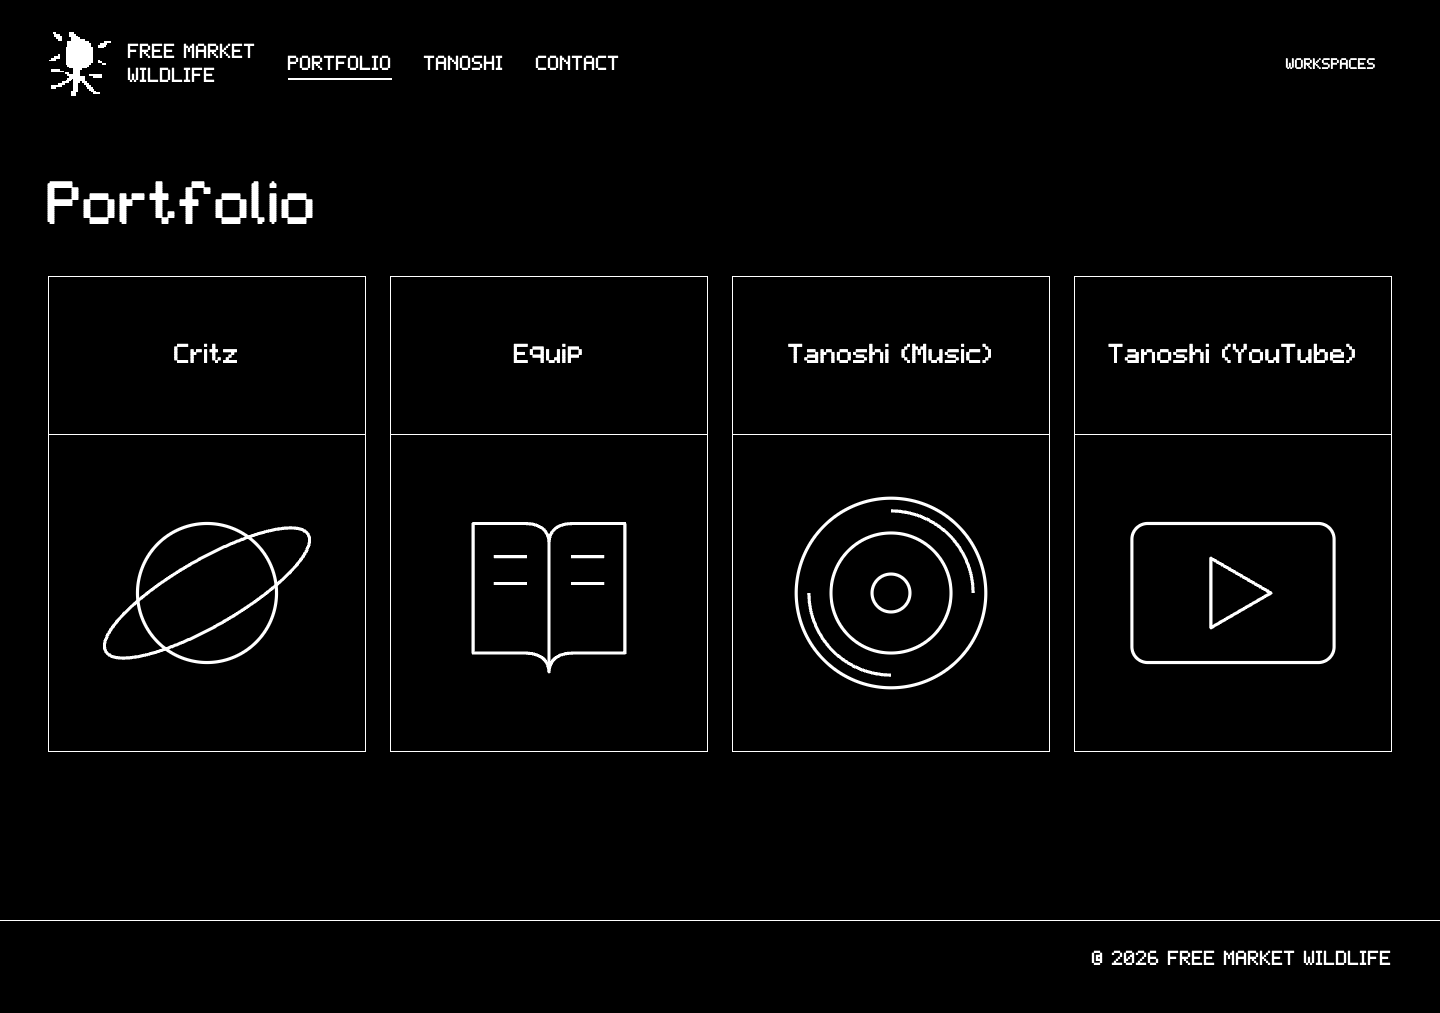
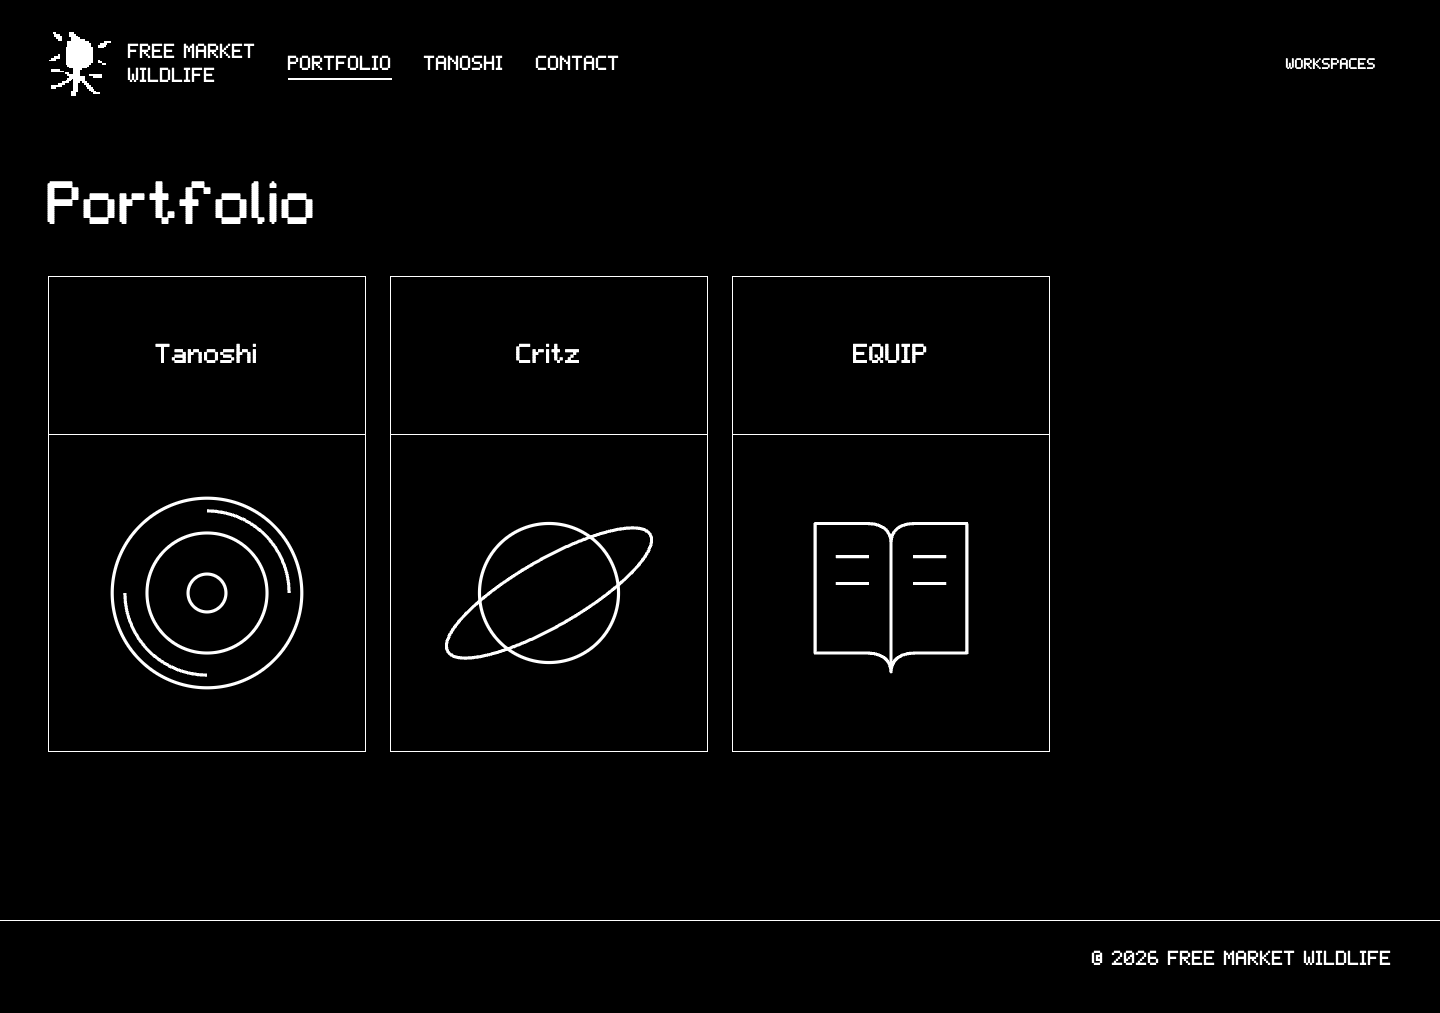
Organize portfolio as Tanoshi Critz and EQUIP with project sections and public growth

diff --git a/assets/js/portfolio-growth.js b/assets/js/portfolio-growth.js
@@ -1,0 +1,24 @@
+const host=document.querySelector('[data-public-growth]');
+const number=new Intl.NumberFormat();
+const label=value=>new Date(value).toLocaleDateString(undefined,{year:'numeric',month:'short',day:'numeric',timeZone:'America/Los_Angeles'});
+const cell=(tag,text)=>{const node=document.createElement(tag);node.textContent=text;return node;};
+try {
+  const response=await fetch('/assets/data/tanoshi-youtube.json',{cache:'no-store'});if(!response.ok)throw Error();
+  const data=await response.json(),now=Date.now();
+  const observations=(data.snapshots || []).filter(row=>{const time=Date.parse(row.observedAt);return time<=now && time>=now-27*86400000;}).sort((a,b)=>Date.parse(a.observedAt)-Date.parse(b.observedAt));
+  if(!observations.length)throw Error();
+  const first=observations[0],last=observations.at(-1);
+  const valid=value=>typeof value==='number' && Number.isFinite(value) && value>=0;
+  const table=document.createElement('table');table.className='portfolio-growth-table';
+  const head=document.createElement('thead'),headRow=document.createElement('tr');
+  for(const title of ['Metric','Latest','Observed change']){const th=cell('th',title);th.scope='col';headRow.append(th);}
+  head.append(headRow);table.append(head);const body=document.createElement('tbody');
+  for(const [key,title] of [['subscribers','Subscribers'],['views','Views'],['videos','Videos']]) {
+    const row=document.createElement('tr'),name=cell('th',title);name.scope='row';row.append(name,cell('td',valid(last[key])?number.format(last[key]):'Unavailable'));
+    const delta=last[key]-first[key];
+    row.append(cell('td',observations.length>1 && valid(first[key]) && valid(last[key])?(delta>0?'+':'')+number.format(delta):'Awaiting observations'));body.append(row);
+  }
+  table.append(body);host.replaceChildren(table);
+  const note=cell('p',`Public observations: ${label(first.observedAt)}–${label(last.observedAt)}. Subscriber counts may be rounded. Changes cover this observed period.`);note.className='portfolio-growth-note';host.append(note);
+  if(data.status!=='ok' || now-Date.parse(last.observedAt)>36*3600000){const warning=cell('p','Latest refresh is delayed. Showing the most recent available observations.');warning.className='portfolio-growth-note';host.append(warning);}
+}catch {host.replaceChildren(cell('p','Channel growth observations are not available yet.'));}

diff --git a/tanoshi/index.html b/tanoshi/index.html
@@ -9,7 +9,7 @@
   <title>Tanoshi — Free Market Wildlife</title>
   <link rel="icon" href="/assets/images/mark.svg" type="image/svg+xml">
   <link rel="stylesheet" href="/assets/css/styles.css">
-  <link rel="stylesheet" href="/assets/css/portfolio.css?v=1">
+  <link rel="stylesheet" href="/assets/css/portfolio.css?v=2">
 
   <script type="module" src="/assets/js/app.js?v=4-open"></script>
 <script type="module" src="/assets/js/account.js?v=2"></script></head>
@@ -21,12 +21,7 @@
   <button class="access-button" type="button" data-open-access aria-label="Workspaces"><span>Workspaces</span></button>
 </header>
 <main class="page-main portfolio-main" id="main" tabindex="-1">
-  <a class="portfolio-back" href="/portfolio/">← Portfolio</a>
-  <h1>Tanoshi</h1>
-  <div class="portfolio-grid" aria-label="Tanoshi portfolio">
-    <a class="portfolio-card" href="/tanoshi/music/"><div class="portfolio-card-heading"><h2>Tanoshi (Music)</h2></div><div class="portfolio-thumbnail"><img src="/assets/images/portfolio/music.svg" width="400" height="400" alt=""></div></a>
-    <a class="portfolio-card" href="/tanoshi/youtube/"><div class="portfolio-card-heading"><h2>Tanoshi (YouTube)</h2></div><div class="portfolio-thumbnail"><img src="/assets/images/portfolio/youtube.svg" width="400" height="400" alt=""></div></a>
-  </div>
+<a class="portfolio-back" href="/portfolio/">← Portfolio</a><h1>Tanoshi</h1><div class="portfolio-grid"><a class="portfolio-card" href="/tanoshi/youtube/"><div class="portfolio-card-heading"><h2>YouTube</h2></div><div class="portfolio-thumbnail"><img src="/assets/images/portfolio/youtube.svg" width="400" height="400" alt=""></div></a><a class="portfolio-card" href="/tanoshi/music/"><div class="portfolio-card-heading"><h2>Music</h2></div><div class="portfolio-thumbnail"><img src="/assets/images/portfolio/music.svg" width="400" height="400" alt=""></div></a></div>
 </main>
 <footer class="site-footer"><span></span><span>© <span data-year>2026</span> FREE MARKET WILDLIFE</span></footer>
 <dialog class="access-dialog" id="access-dialog" aria-labelledby="access-title"><div class="dialog-panel"><button class="close-button" type="button" data-close-access aria-label="Close sign in">×</button><h2 id="access-title">Sign in</h2><p role="status">Loading…</p></div></dialog>

diff --git a/tanoshi/youtube/index.html b/tanoshi/youtube/index.html
@@ -9,10 +9,10 @@
   <title>Tanoshi (YouTube) — Free Market Wildlife</title>
   <link rel="icon" href="/assets/images/mark.svg" type="image/svg+xml">
   <link rel="stylesheet" href="/assets/css/styles.css">
-  <link rel="stylesheet" href="/assets/css/portfolio.css?v=1">
+  <link rel="stylesheet" href="/assets/css/portfolio.css?v=2">
 
   <script type="module" src="/assets/js/app.js?v=4-open"></script>
-<script type="module" src="/assets/js/account.js?v=2"></script></head>
+<script type="module" src="/assets/js/account.js?v=2"></script><script type="module" src="/assets/js/portfolio-growth.js?v=1"></script></head>
 <body>
 <a class="skip-link" href="#main">Skip to content</a>
 <header class="site-header">
@@ -21,8 +21,10 @@
   <button class="access-button" type="button" data-open-access aria-label="Workspaces"><span>Workspaces</span></button>
 </header>
 <main class="page-main portfolio-main" id="main" tabindex="-1">
-  <nav class="portfolio-breadcrumbs" aria-label="Breadcrumb"><a href="/portfolio/">Portfolio</a><span aria-hidden="true">/</span><a href="/tanoshi/">Tanoshi</a></nav>
-  <h1>Tanoshi (YouTube)</h1>
+<nav class="portfolio-breadcrumbs" aria-label="Breadcrumb"><a href="/portfolio/">Portfolio</a><span>/</span><a href="/tanoshi/">Tanoshi</a></nav><h1>YouTube</h1>
+<p><a class="portfolio-inline-link" href="https://www.youtube.com/@TanoshiSan">Tanoshi on YouTube ↗</a></p>
+<section class="portfolio-section" aria-labelledby="growth-heading"><h2 id="growth-heading">Channel growth</h2><div data-public-growth><p role="status">Loading public channel observations…</p></div></section>
+<section class="portfolio-section"><h2>What I’ve learned about content</h2></section>
 </main>
 <footer class="site-footer"><span></span><span>© <span data-year>2026</span> FREE MARKET WILDLIFE</span></footer>
 <dialog class="access-dialog" id="access-dialog" aria-labelledby="access-title"><div class="dialog-panel"><button class="close-button" type="button" data-close-access aria-label="Close sign in">×</button><h2 id="access-title">Sign in</h2><p role="status">Loading…</p></div></dialog>

diff --git a/portfolio/critz/games/index.html b/portfolio/critz/games/index.html
@@ -1,0 +1,29 @@
+<!doctype html>
+<html lang="en">
+<head>
+  <meta charset="utf-8">
+  <meta name="viewport" content="width=device-width, initial-scale=1">
+  <meta name="color-scheme" content="dark">
+  <meta name="theme-color" content="#000000">
+  <meta name="description" content="Game Universe.">
+  <title>Game Universe — Free Market Wildlife</title>
+  <link rel="icon" href="/assets/images/mark.svg" type="image/svg+xml">
+  <link rel="stylesheet" href="/assets/css/styles.css">
+  <link rel="stylesheet" href="/assets/css/portfolio.css?v=2">
+
+  <script type="module" src="/assets/js/app.js?v=4-open"></script>
+<script type="module" src="/assets/js/account.js?v=2"></script></head>
+<body>
+<a class="skip-link" href="#main">Skip to content</a>
+<header class="site-header">
+  <a class="brand" href="/" aria-label="Free Market Wildlife home"><img src="/assets/images/mark.svg" width="64" height="64" alt=""><span>FREE MARKET<br>WILDLIFE</span></a>
+  <nav aria-label="Primary"><a href="/portfolio/" aria-current="page">Portfolio</a><a href="/tanoshi/">Tanoshi</a><a href="/contact/">Contact</a></nav>
+  <button class="access-button" type="button" data-open-access aria-label="Workspaces"><span>Workspaces</span></button>
+</header>
+<main class="page-main portfolio-main" id="main" tabindex="-1">
+<a class="portfolio-back" href="/portfolio/critz/">← Critz</a><h1>Game Universe</h1><section class="portfolio-section"><h2>Playable work-in-progress demos</h2></section>
+</main>
+<footer class="site-footer"><span></span><span>© <span data-year>2026</span> FREE MARKET WILDLIFE</span></footer>
+<dialog class="access-dialog" id="access-dialog" aria-labelledby="access-title"><div class="dialog-panel"><button class="close-button" type="button" data-close-access aria-label="Close sign in">×</button><h2 id="access-title">Sign in</h2><p role="status">Loading…</p></div></dialog>
+</body>
+</html>

diff --git a/portfolio/critz/dragex/index.html b/portfolio/critz/dragex/index.html
@@ -1,0 +1,29 @@
+<!doctype html>
+<html lang="en">
+<head>
+  <meta charset="utf-8">
+  <meta name="viewport" content="width=device-width, initial-scale=1">
+  <meta name="color-scheme" content="dark">
+  <meta name="theme-color" content="#000000">
+  <meta name="description" content="Dragex.">
+  <title>Dragex — Free Market Wildlife</title>
+  <link rel="icon" href="/assets/images/mark.svg" type="image/svg+xml">
+  <link rel="stylesheet" href="/assets/css/styles.css">
+  <link rel="stylesheet" href="/assets/css/portfolio.css?v=2">
+
+  <script type="module" src="/assets/js/app.js?v=4-open"></script>
+<script type="module" src="/assets/js/account.js?v=2"></script></head>
+<body>
+<a class="skip-link" href="#main">Skip to content</a>
+<header class="site-header">
+  <a class="brand" href="/" aria-label="Free Market Wildlife home"><img src="/assets/images/mark.svg" width="64" height="64" alt=""><span>FREE MARKET<br>WILDLIFE</span></a>
+  <nav aria-label="Primary"><a href="/portfolio/" aria-current="page">Portfolio</a><a href="/tanoshi/">Tanoshi</a><a href="/contact/">Contact</a></nav>
+  <button class="access-button" type="button" data-open-access aria-label="Workspaces"><span>Workspaces</span></button>
+</header>
+<main class="page-main portfolio-main" id="main" tabindex="-1">
+<a class="portfolio-back" href="/portfolio/critz/">← Critz</a><h1>Dragex</h1><p>The book series.</p><p>In progress.</p>
+</main>
+<footer class="site-footer"><span></span><span>© <span data-year>2026</span> FREE MARKET WILDLIFE</span></footer>
+<dialog class="access-dialog" id="access-dialog" aria-labelledby="access-title"><div class="dialog-panel"><button class="close-button" type="button" data-close-access aria-label="Close sign in">×</button><h2 id="access-title">Sign in</h2><p role="status">Loading…</p></div></dialog>
+</body>
+</html>

diff --git a/portfolio/critz/index.html b/portfolio/critz/index.html
@@ -9,7 +9,7 @@
   <title>Critz — Free Market Wildlife</title>
   <link rel="icon" href="/assets/images/mark.svg" type="image/svg+xml">
   <link rel="stylesheet" href="/assets/css/styles.css">
-  <link rel="stylesheet" href="/assets/css/portfolio.css?v=1">
+  <link rel="stylesheet" href="/assets/css/portfolio.css?v=2">
 
   <script type="module" src="/assets/js/app.js?v=4-open"></script>
 <script type="module" src="/assets/js/account.js?v=2"></script></head>
@@ -21,8 +21,7 @@
   <button class="access-button" type="button" data-open-access aria-label="Workspaces"><span>Workspaces</span></button>
 </header>
 <main class="page-main portfolio-main" id="main" tabindex="-1">
-  <a class="portfolio-back" href="/portfolio/">← Portfolio</a>
-  <h1>Critz</h1>
+<a class="portfolio-back" href="/portfolio/">← Portfolio</a><h1>Critz</h1><div class="portfolio-grid"><a class="portfolio-card" href="/portfolio/critz/games/"><div class="portfolio-card-heading"><h2>Game Universe</h2></div><div class="portfolio-thumbnail"><img src="/assets/images/portfolio/critz.svg" width="400" height="400" alt=""></div></a><a class="portfolio-card" href="/portfolio/critz/dragex/"><div class="portfolio-card-heading"><h2>Dragex</h2></div><div class="portfolio-thumbnail"><img src="/assets/images/portfolio/equip.svg" width="400" height="400" alt=""></div></a></div>
 </main>
 <footer class="site-footer"><span></span><span>© <span data-year>2026</span> FREE MARKET WILDLIFE</span></footer>
 <dialog class="access-dialog" id="access-dialog" aria-labelledby="access-title"><div class="dialog-panel"><button class="close-button" type="button" data-close-access aria-label="Close sign in">×</button><h2 id="access-title">Sign in</h2><p role="status">Loading…</p></div></dialog>

diff --git a/portfolio/equip/index.html b/portfolio/equip/index.html
@@ -5,11 +5,11 @@
   <meta name="viewport" content="width=device-width, initial-scale=1">
   <meta name="color-scheme" content="dark">
   <meta name="theme-color" content="#000000">
-  <meta name="description" content="Equip portfolio.">
-  <title>Equip — Free Market Wildlife</title>
+  <meta name="description" content="EQUIP portfolio.">
+  <title>EQUIP — Free Market Wildlife</title>
   <link rel="icon" href="/assets/images/mark.svg" type="image/svg+xml">
   <link rel="stylesheet" href="/assets/css/styles.css">
-  <link rel="stylesheet" href="/assets/css/portfolio.css?v=1">
+  <link rel="stylesheet" href="/assets/css/portfolio.css?v=2">
 
   <script type="module" src="/assets/js/app.js?v=4-open"></script>
 <script type="module" src="/assets/js/account.js?v=2"></script></head>
@@ -21,8 +21,7 @@
   <button class="access-button" type="button" data-open-access aria-label="Workspaces"><span>Workspaces</span></button>
 </header>
 <main class="page-main portfolio-main" id="main" tabindex="-1">
-  <a class="portfolio-back" href="/portfolio/">← Portfolio</a>
-  <h1>Equip</h1>
+<a class="portfolio-back" href="/portfolio/">← Portfolio</a><h1>EQUIP</h1><section class="portfolio-section"><h2>Released albums</h2><p>2 albums released.</p></section>
 </main>
 <footer class="site-footer"><span></span><span>© <span data-year>2026</span> FREE MARKET WILDLIFE</span></footer>
 <dialog class="access-dialog" id="access-dialog" aria-labelledby="access-title"><div class="dialog-panel"><button class="close-button" type="button" data-close-access aria-label="Close sign in">×</button><h2 id="access-title">Sign in</h2><p role="status">Loading…</p></div></dialog>

diff --git a/tanoshi/music/index.html b/tanoshi/music/index.html
@@ -9,7 +9,7 @@
   <title>Tanoshi (Music) — Free Market Wildlife</title>
   <link rel="icon" href="/assets/images/mark.svg" type="image/svg+xml">
   <link rel="stylesheet" href="/assets/css/styles.css">
-  <link rel="stylesheet" href="/assets/css/portfolio.css?v=1">
+  <link rel="stylesheet" href="/assets/css/portfolio.css?v=2">
 
   <script type="module" src="/assets/js/app.js?v=4-open"></script>
 <script type="module" src="/assets/js/account.js?v=2"></script></head>
@@ -21,8 +21,9 @@
   <button class="access-button" type="button" data-open-access aria-label="Workspaces"><span>Workspaces</span></button>
 </header>
 <main class="page-main portfolio-main" id="main" tabindex="-1">
-  <nav class="portfolio-breadcrumbs" aria-label="Breadcrumb"><a href="/portfolio/">Portfolio</a><span aria-hidden="true">/</span><a href="/tanoshi/">Tanoshi</a></nav>
-  <h1>Tanoshi (Music)</h1>
+<nav class="portfolio-breadcrumbs" aria-label="Breadcrumb"><a href="/portfolio/">Portfolio</a><span>/</span><a href="/tanoshi/">Tanoshi</a></nav><h1>Music</h1>
+<section class="portfolio-section"><h2>Spotify growth</h2><p>Spotify link needed.</p></section>
+<section class="portfolio-section"><h2>Team album projects</h2></section>
 </main>
 <footer class="site-footer"><span></span><span>© <span data-year>2026</span> FREE MARKET WILDLIFE</span></footer>
 <dialog class="access-dialog" id="access-dialog" aria-labelledby="access-title"><div class="dialog-panel"><button class="close-button" type="button" data-close-access aria-label="Close sign in">×</button><h2 id="access-title">Sign in</h2><p role="status">Loading…</p></div></dialog>

diff --git a/portfolio/index.html b/portfolio/index.html
@@ -5,7 +5,7 @@
   <meta name="viewport" content="width=device-width, initial-scale=1">
   <meta name="color-scheme" content="dark">
   <meta name="theme-color" content="#000000">
-  <meta name="description" content="Original work from Critz, Equip, Tanoshi (Music), and Tanoshi (YouTube).">
+  <meta name="description" content="Original work from Tanoshi, Critz, and EQUIP.">
   <title>Portfolio — Free Market Wildlife</title>
   <link rel="icon" href="/assets/images/mark.svg" type="image/svg+xml">
   <link rel="stylesheet" href="/assets/css/styles.css">
@@ -26,7 +26,7 @@
   <p class="portfolio-status" data-portfolio-status role="status"></p>
   <button class="portfolio-more" data-portfolio-more type="button" hidden>Load more</button>
   <div data-portfolio-sentinel aria-hidden="true"></div>
-  <noscript><nav aria-label="Portfolio"><a href="/portfolio/critz/">Critz</a> · <a href="/portfolio/equip/">Equip</a> · <a href="/tanoshi/music/">Tanoshi (Music)</a> · <a href="/tanoshi/youtube/">Tanoshi (YouTube)</a></nav></noscript>
+  <noscript><nav aria-label="Portfolio"><a href="/tanoshi/">Tanoshi</a> · <a href="/portfolio/critz/">Critz</a> · <a href="/portfolio/equip/">EQUIP</a></nav></noscript>
 </main>
 <footer class="site-footer"><span></span><span>© <span data-year>2026</span> FREE MARKET WILDLIFE</span></footer>
 <dialog class="access-dialog" id="access-dialog" aria-labelledby="access-title"><div class="dialog-panel"><button class="close-button" type="button" data-close-access aria-label="Close sign in">×</button><h2 id="access-title">Sign in</h2><p role="status">Loading…</p></div></dialog>

diff --git a/assets/css/portfolio.css b/assets/css/portfolio.css
@@ -17,3 +17,10 @@ a.portfolio-card:hover .portfolio-card-heading, a.portfolio-card:focus-visible .
 
 .portfolio-back { display: inline-block; margin-bottom: 24px; }
 .portfolio-breadcrumbs { display: flex; gap: 12px; margin-bottom: 24px; }
+
+.portfolio-section { max-width: 880px; margin: 40px 0; }
+.portfolio-section h2 { margin-bottom: 16px; }
+.portfolio-inline-link { text-decoration: underline; text-underline-offset: 4px; }
+.portfolio-growth-table { width: 100%; min-width: 0; font: 16px/1.5 Arial, Helvetica, sans-serif; }
+.portfolio-growth-table th, .portfolio-growth-table td { padding: 12px; min-width: 0; }
+.portfolio-growth-note { font: 14px/1.6 Arial, Helvetica, sans-serif; margin: 16px 0; }

diff --git a/scripts/check_site.py b/scripts/check_site.py
@@ -24,7 +24,7 @@ class Document(HTMLParser):
    if attrs.get(attr):self.refs.append(attrs[attr])
   if tag=='input':require(attrs.get('type')!='tel',f'{self.path}: unexpected contact field')
  def handle_startendtag(self,tag,attrs):self.handle_starttag(tag,attrs)
-PAGES=['portfolio/critz/index.html','portfolio/equip/index.html','tanoshi/music/index.html','tanoshi/youtube/index.html','tutorials/index.html','tutorials/youtube-stats-access/index.html','privacy/index.html','build-a-business/index.html','troykearns/content-ideas/index.html','kat-kai/content-ideas/index.html','troykearns/strategy/index.html','troykearns/roadmap/index.html','kat-kai/strategy/index.html','kat-kai/roadmap/index.html','philip-aram/index.html','index.html','blog/index.html','portfolio/index.html','tanoshi/index.html','contact/index.html','troy-kearns/index.html','troykearns/index.html','troykearns/statistics/index.html','troykearns/connect/index.html','kat-kai/index.html','kat-kai/statistics/index.html','404.html']
+PAGES=['portfolio/critz/games/index.html','portfolio/critz/dragex/index.html','portfolio/critz/index.html','portfolio/equip/index.html','tanoshi/music/index.html','tanoshi/youtube/index.html','tutorials/index.html','tutorials/youtube-stats-access/index.html','privacy/index.html','build-a-business/index.html','troykearns/content-ideas/index.html','kat-kai/content-ideas/index.html','troykearns/strategy/index.html','troykearns/roadmap/index.html','kat-kai/strategy/index.html','kat-kai/roadmap/index.html','philip-aram/index.html','index.html','blog/index.html','portfolio/index.html','tanoshi/index.html','contact/index.html','troy-kearns/index.html','troykearns/index.html','troykearns/statistics/index.html','troykearns/connect/index.html','kat-kai/index.html','kat-kai/statistics/index.html','404.html']
 for name in PAGES:
  path=ROOT/name;text=path.read_text();doc=Document(name);doc.feed(text)
  require(doc.h1==1,f'{name}: expected one h1');require(doc.main,f'{name}: missing main')
